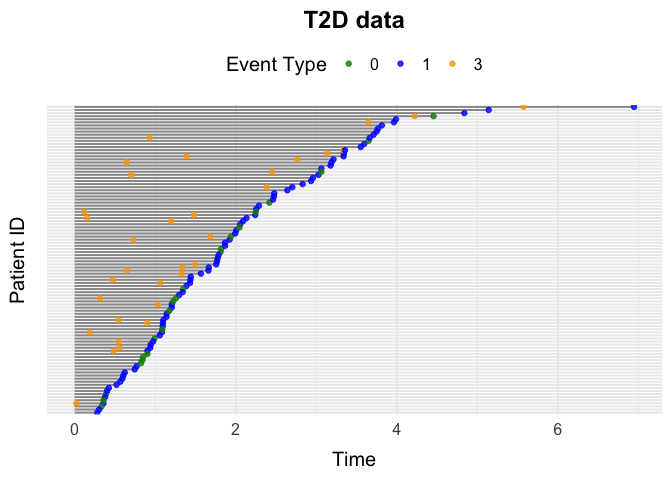
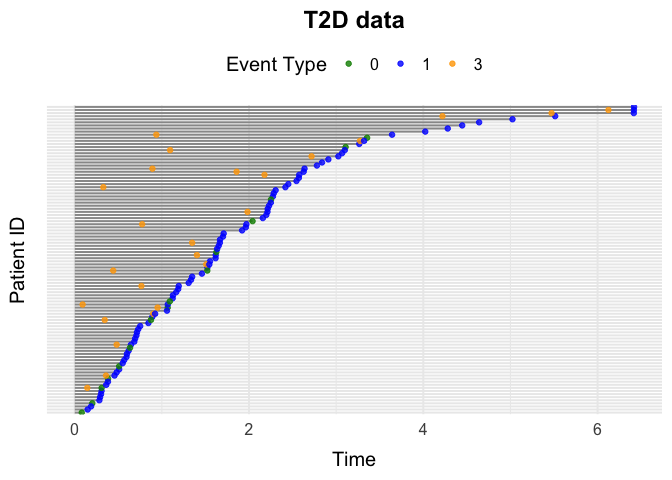
dagens work

diff --git a/README.md b/README.md
@@ -61,12 +61,12 @@ head(data)
 #> Key: <ID>
 #>       ID      Time Delta       L0     L    A0     A
 #>    <int>     <num> <num>    <num> <num> <int> <num>
-#> 1:     1  8.400588     2 56.93411     0     1     0
-#> 2:     1 10.302457     0 56.93411     0     1     1
-#> 3:     2  1.845571     2 43.15434     0     0     0
-#> 4:     2  6.482616     1 43.15434     0     0     1
-#> 5:     3  5.606393     0 51.53736     0     1     0
-#> 6:     4  2.760928     1 41.77216     0     0     0
+#> 1:     1 1.6487768     2 63.22484     0     1     0
+#> 2:     1 9.2003661     1 63.22484     0     1     1
+#> 3:     2 6.8472139     1 37.46308     0     1     0
+#> 4:     3 0.3997357     1 62.58468     0     0     0
+#> 5:     4 1.1660279     2 47.87919     0     1     0
+#> 6:     4 2.5904808     1 47.87919     0     1     1
 ```
 
 One can visualize the data by
@@ -79,7 +79,7 @@ plotEventData(data)
 
 ### Classical Estimation
 
-We simulate for $N = 10^4$ individuals
+We simulate for $N = 10^4$ individuals. Additional covariates
 
 ``` r
 data <- simEventData(N = 10^4, beta = beta)
@@ -103,20 +103,20 @@ Data in the format looks like
 ``` r
 head(data_int)
 #> Key: <ID>
-#>       ID     Time Delta       L0     L    A0     A     k   tstart    tstop
-#>    <int>    <num> <num>    <num> <num> <int> <num> <int>    <num>    <num>
-#> 1:     1 1.022917     3 60.88006     0     1     0     1 0.000000 1.022917
-#> 2:     1 1.097404     1 60.88006     1     1     0     2 1.022917 1.097404
-#> 3:     2 3.025314     3 35.68031     0     1     0     1 0.000000 3.025314
-#> 4:     2 6.343352     0 35.68031     1     1     0     2 3.025314 6.343352
-#> 5:     3 0.900248     0 44.08172     0     1     0     1 0.000000 0.900248
-#> 6:     4 1.596860     0 37.91036     0     1     0     1 0.000000 1.596860
+#>       ID      Time Delta       L0     L    A0     A     k   tstart     tstop
+#>    <int>     <num> <num>    <num> <num> <int> <num> <int>    <num>     <num>
+#> 1:     1 2.0373085     3 50.92628     0     0     0     1 0.000000 2.0373085
+#> 2:     1 3.6342119     1 50.92628     1     0     0     2 2.037309 3.6342119
+#> 3:     2 1.6753524     0 42.96036     0     1     0     1 0.000000 1.6753524
+#> 4:     3 1.1853940     1 30.72762     0     1     0     1 0.000000 1.1853940
+#> 5:     4 3.1342088     0 57.44008     0     1     0     1 0.000000 3.1342088
+#> 6:     5 0.7731562     1 46.84456     0     1     0     1 0.000000 0.7731562
 #>    at_risk_2 at_risk_3
 #>        <num>     <num>
 #> 1:         1         1
 #> 2:         1         0
 #> 3:         1         1
-#> 4:         1         0
+#> 4:         1         1
 #> 5:         1         1
 #> 6:         1         1
 ```
@@ -142,26 +142,26 @@ survfit_death |> summary()
 #> coxph(formula = Surv(tstart, tstop, Delta == 1) ~ I(L0/50) + 
 #>     A0 + L + A, data = data_int)
 #> 
-#>   n= 14443, number of events= 6286 
+#>   n= 14461, number of events= 6352 
 #> 
 #>              coef exp(coef) se(coef)      z Pr(>|z|)    
-#> I(L0/50)  0.94596   2.57529  0.05484  17.25   <2e-16 ***
-#> A0       -0.99750   0.36880  0.02716 -36.73   <2e-16 ***
-#> L         0.97131   2.64139  0.02972  32.69   <2e-16 ***
-#> A        -0.95891   0.38331  0.04183 -22.92   <2e-16 ***
+#> I(L0/50)  0.98586   2.68011  0.05546  17.78   <2e-16 ***
+#> A0       -1.00430   0.36630  0.02715 -36.99   <2e-16 ***
+#> L         0.97273   2.64517  0.02946  33.02   <2e-16 ***
+#> A        -1.02780   0.35779  0.04316 -23.81   <2e-16 ***
 #> ---
 #> Signif. codes:  0 '***' 0.001 '**' 0.01 '*' 0.05 '.' 0.1 ' ' 1
 #> 
 #>          exp(coef) exp(-coef) lower .95 upper .95
-#> I(L0/50)    2.5753     0.3883    2.3128    2.8675
-#> A0          0.3688     2.7115    0.3497    0.3890
-#> L           2.6414     0.3786    2.4919    2.7998
-#> A           0.3833     2.6089    0.3531    0.4161
+#> I(L0/50)    2.6801     0.3731    2.4041    2.9878
+#> A0          0.3663     2.7300    0.3473    0.3863
+#> L           2.6452     0.3780    2.4968    2.8024
+#> A           0.3578     2.7949    0.3288    0.3894
 #> 
-#> Concordance= 0.673  (se = 0.004 )
-#> Likelihood ratio test= 2645  on 4 df,   p=<2e-16
-#> Wald test            = 2640  on 4 df,   p=<2e-16
-#> Score (logrank) test = 2733  on 4 df,   p=<2e-16
+#> Concordance= 0.676  (se = 0.004 )
+#> Likelihood ratio test= 2719  on 4 df,   p=<2e-16
+#> Wald test            = 2698  on 4 df,   p=<2e-16
+#> Score (logrank) test = 2799  on 4 df,   p=<2e-16
 ```
 
 ## Example 2: Survival Data
